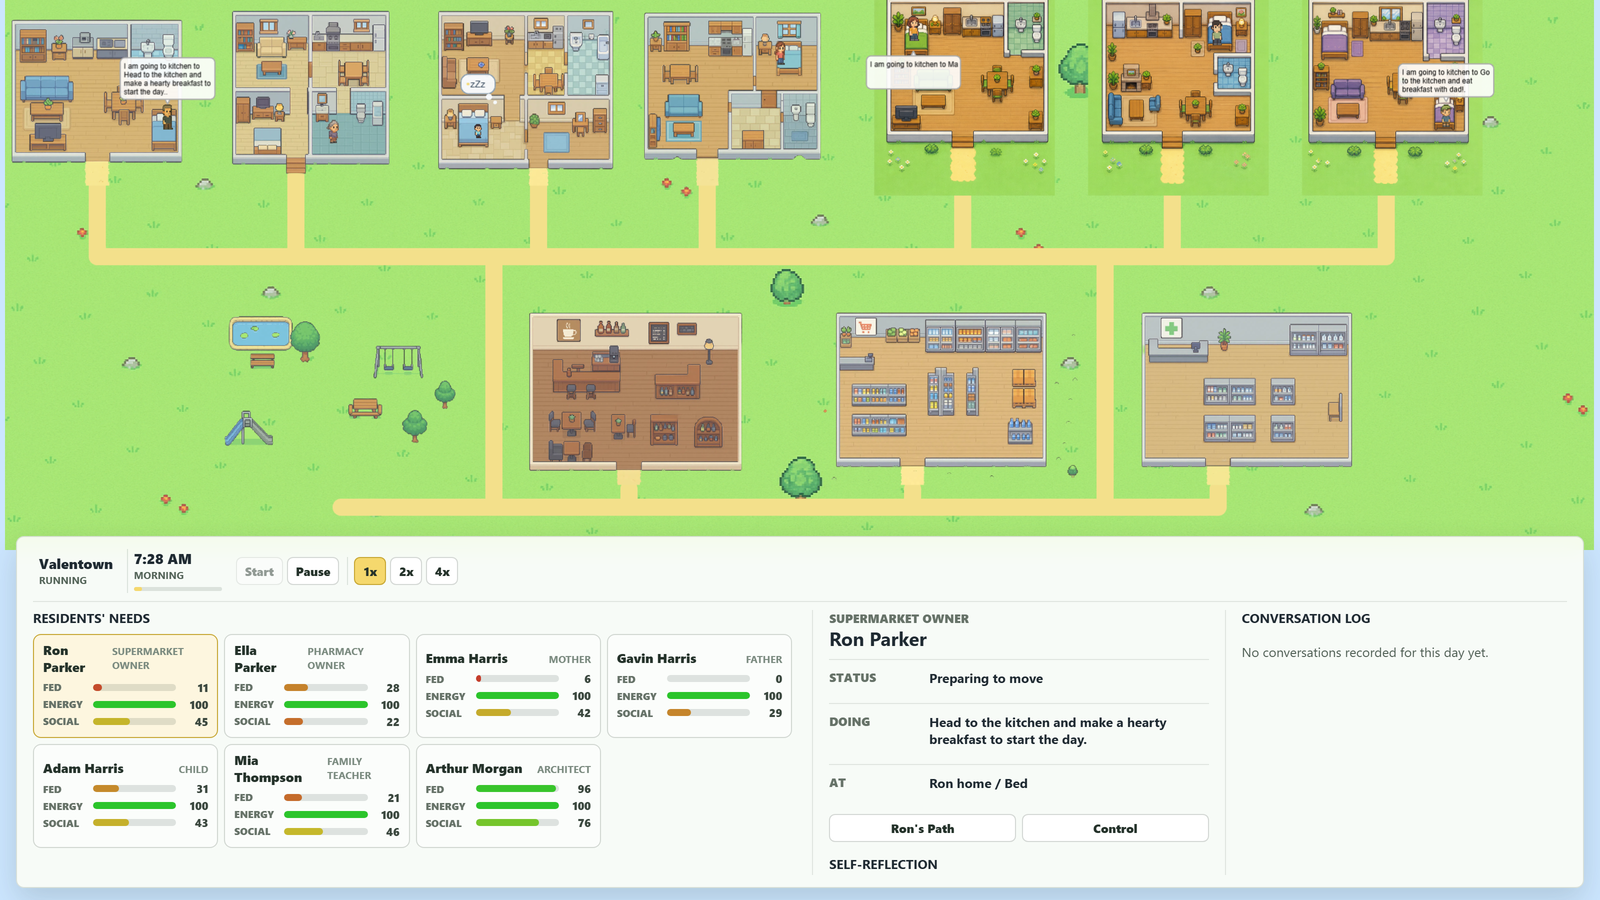
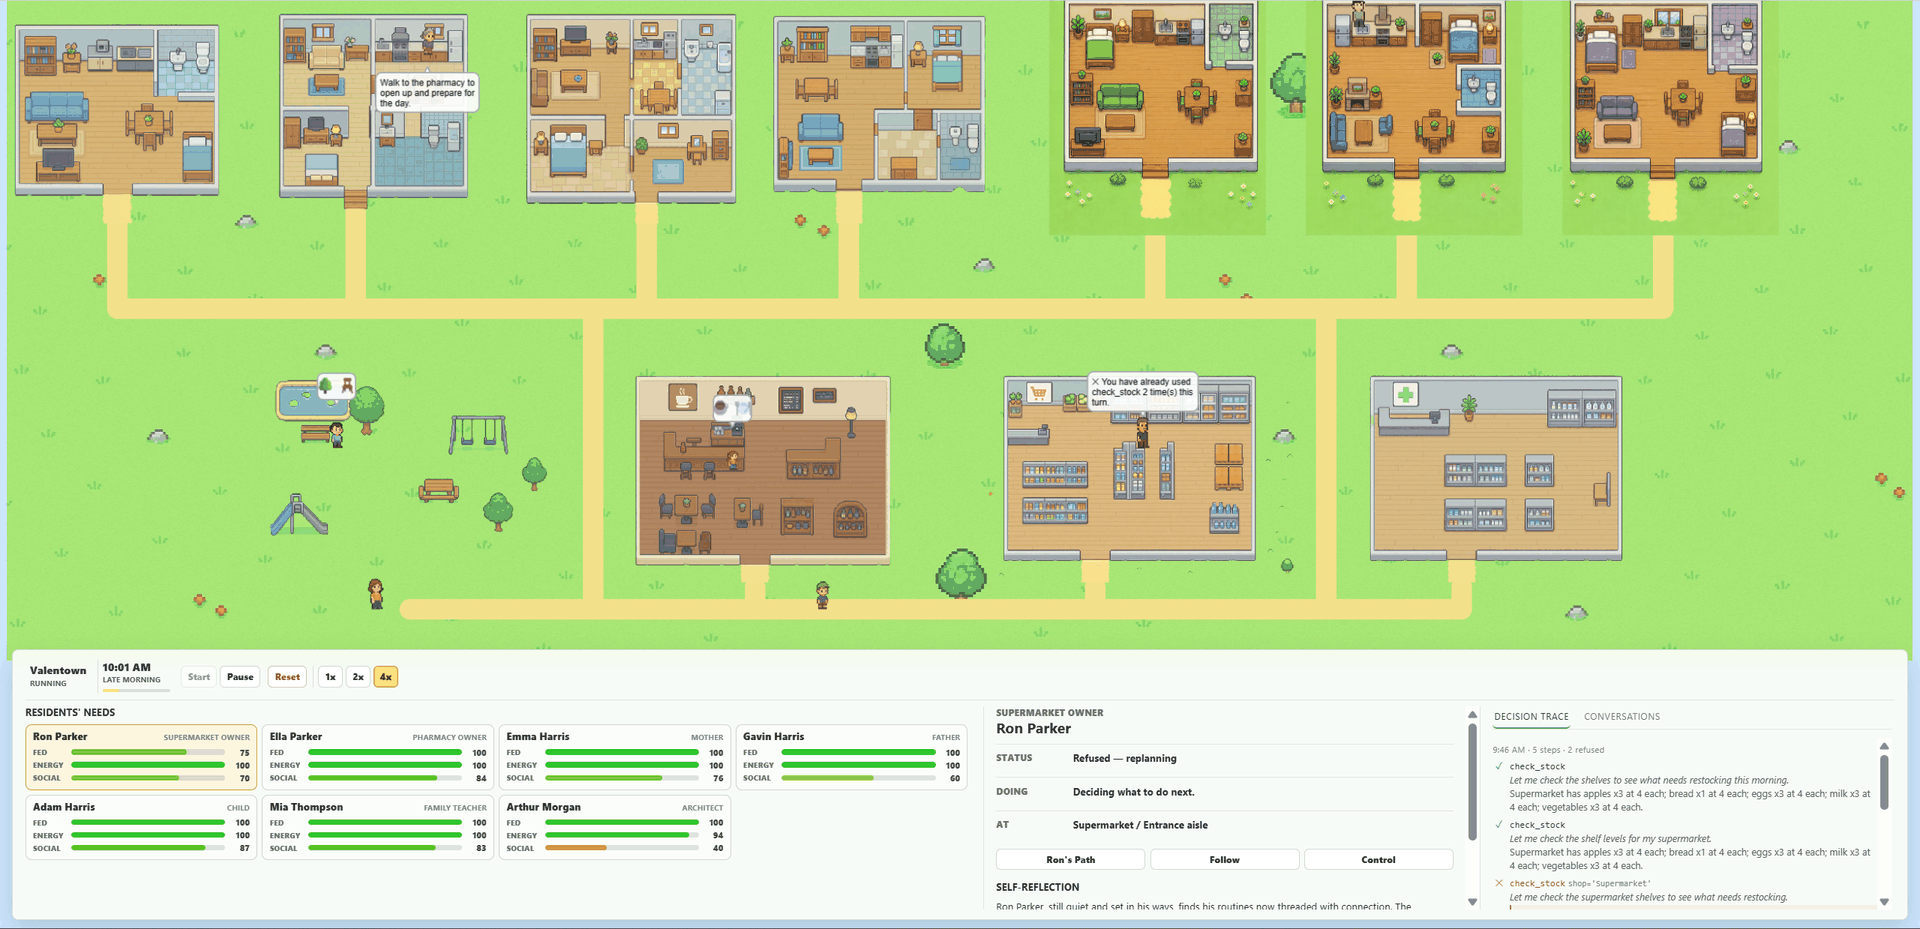
docs: 换掉过时的截图，挂在循环示意图后面
旧那张拍在决策轨迹面板做出来之前——右边只有 "CONVERSATION LOG"，
读者看不到这个项目最近做的东西。

新的一张是一轮真实决策：

    9:46 AM · 5 steps · 2 refused
    ✓ check_stock   Supermarket has apples x3 at 4 each; bread x1 at 4 each; …
    ✓ check_stock   （同上）
    ✗ check_stock   shop='Supermarket'

放在 `状态 → LLM → 调用工具 → 世界 → 观察` 那张图后面，因为它就是那张图
跑出来的样子：**一轮不等于一次调用**，而且被拒的那一步保留参数、成功的
不保留——这正是 scratchpad 分两段渲染的规则，截图里刚好能看见。

1920x929 / 0.56MB（原图 2560 宽 2.4MB，量化到 256 色，文字无损）。

diff --git a/README.md b/README.md
@@ -38,6 +38,13 @@ An agent picks a tool. The world checks it — the shop is closed, the person is
 not here, you are five short — and answers. The agent replans against the
 refusal, and keeps going until it commits to something that costs time.
 
+![The decision trace panel, showing one turn of five tool calls, two of them refused](docs/screenshot.png)
+
+<sub>One real turn, as the UI shows it: **5 steps, 2 refused**. The world answers
+the successful calls with shelf contents; the refused one keeps its arguments
+(`shop='Supermarket'`) because repeating an identical call is exactly what the
+agent has to avoid next.</sub>
+
 | Decision | What it buys |
 |---|---|
 | 14 tools, each declaring whether it costs game time, how often it may run, who may see it | the loop counts; it knows about no specific tool |
